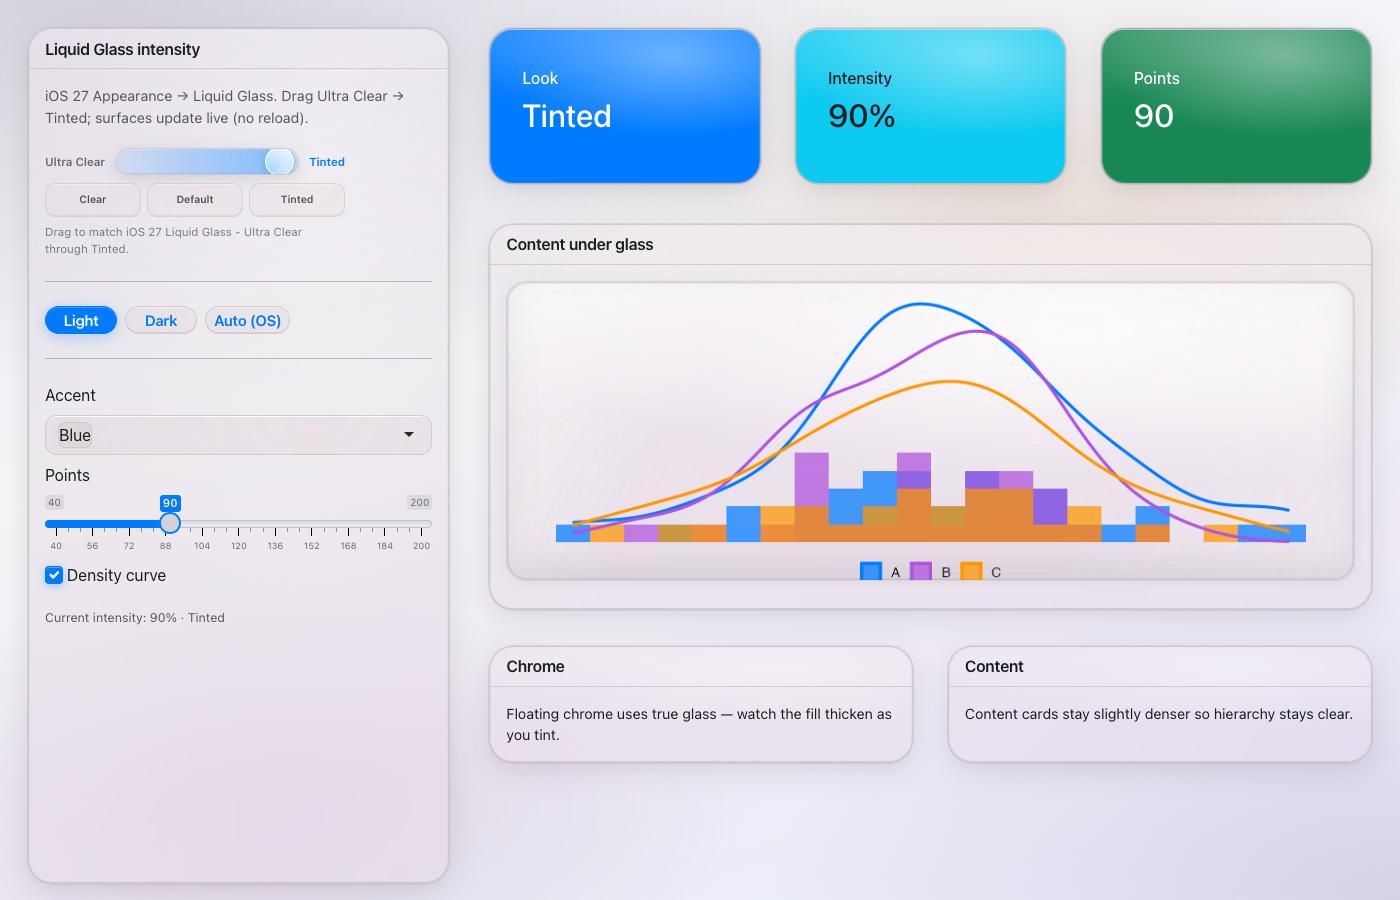
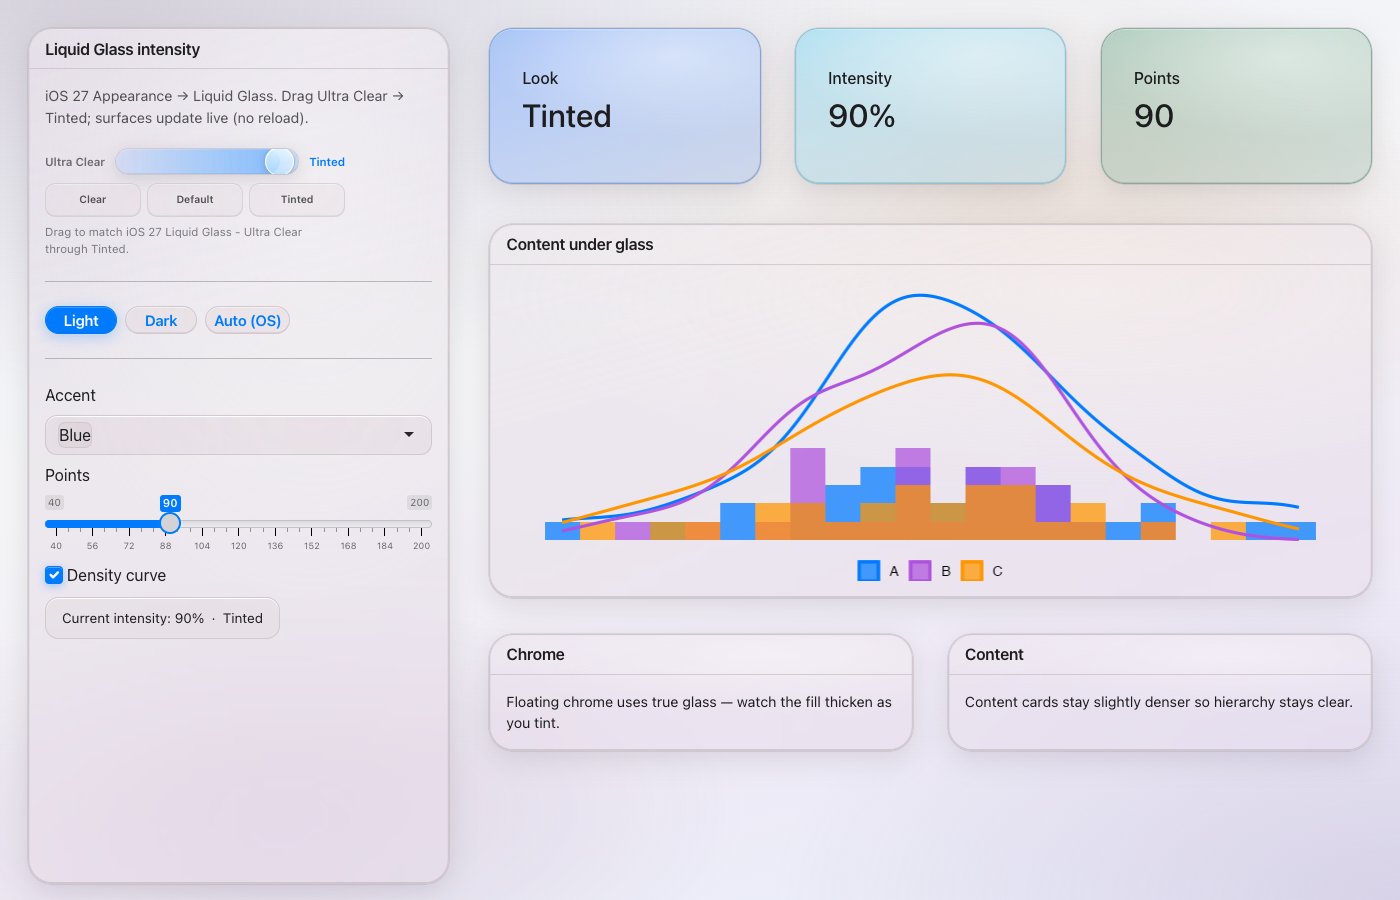
Glass value boxes and transparent plot hosts
Value boxes use a theme-color wash on glass instead of solid .bg-* fills.
Plots and DT/gt hosts inside cards drop the extra glass frame so page orbs
show through. Recapture README dashboard, demo, and intensity stills.

diff --git a/inst/scss/glass.scss b/inst/scss/glass.scss
@@ -1476,7 +1476,7 @@ body {
 // Verbatim / live values / code samples
 pre,
 pre.shiny-text-output,
-.shiny-text-output,
+.shiny-text-output:not(.value-box-value),
 .shiny-verbatim,
 .verbatim,
 code,
@@ -1819,6 +1819,68 @@ small,
   @include glass-surface();
 }
 
+// Value boxes: tinted glass, not solid .bg-* slabs. Keep a wash of the
+// theme color so primary/success/info still read, but the page orbs show
+// through. Ink follows the glass body pack (not white-on-solid).
+@mixin glass-value-box-tint($fill) {
+  background:
+    linear-gradient(
+      165deg,
+      color-mix(in srgb, #{$fill} 30%, transparent) 0%,
+      color-mix(in srgb, #{$fill} 12%, var(--glass-bg)) 100%
+    ) !important;
+  background-color: transparent !important;
+  color: var(--glass-body-color) !important;
+  --bs-card-color: var(--glass-body-color);
+  --bs-card-title-color: var(--glass-body-color);
+  --bs-card-subtitle-color: var(--glass-body-color);
+  --bslib-color-fg: var(--glass-body-color);
+  --bslib-value-box-color: var(--glass-body-color);
+  border-color: color-mix(in srgb, #{$fill} 38%, var(--glass-border)) !important;
+}
+
+.bslib-value-box.bg-primary,
+.bslib-value-box.text-bg-primary,
+.value-box.bg-primary {
+  @include glass-value-box-tint($glass-accent);
+}
+
+@each $name, $color in $theme-colors {
+  @if $name != primary {
+    .bslib-value-box.bg-#{$name},
+    .bslib-value-box.text-bg-#{$name},
+    .value-box.bg-#{$name} {
+      @include glass-value-box-tint($color);
+    }
+  }
+}
+
+.bslib-value-box .value-box-title,
+.bslib-value-box .value-box-value,
+.bslib-value-box .shiny-text-output,
+.value-box .value-box-title,
+.value-box .value-box-value,
+.value-box .shiny-text-output {
+  color: inherit !important;
+  background: transparent !important;
+  background-color: transparent !important;
+  border: none !important;
+  box-shadow: none !important;
+  padding: 0 !important;
+  font-size: inherit;
+  white-space: normal;
+}
+
+// bslib nests the value in an inner fill/showcase well — keep it open
+.bslib-value-box .value-box-area,
+.bslib-value-box .value-box-showcase,
+.bslib-value-box .html-fill-container,
+.bslib-value-box .html-fill-item {
+  background: transparent !important;
+  box-shadow: none !important;
+  border: none !important;
+}
+
 .bslib-page-sidebar > .navbar {
   @include glass-floating(var(--glass-radius));
   background: var(--glass-bg) !important;
@@ -2139,16 +2201,36 @@ small,
   box-sizing: border-box;
 }
 
-// Nested plots inside cards: lighter frame so they don't double-glass
+// Nested plots / tables inside cards: no second pane. The card is the glass;
+// let page orbs show through a transparent host (pair with renderPlot(bg=NA)).
 .card .shiny-plot-output,
 .card .shiny-image-output,
 .bslib-card .shiny-plot-output,
-.bslib-card .shiny-image-output {
-  background: color-mix(in srgb, var(--glass-bg) 55%, transparent);
-  box-shadow:
-    0 2px 12px color-mix(in srgb, var(--glass-shadow) 55%, transparent),
-    inset 0 1px 0 var(--glass-highlight);
-  border-color: color-mix(in srgb, var(--glass-border) 70%, transparent);
+.bslib-card .shiny-image-output,
+.card .dataTables_wrapper,
+.bslib-card .dataTables_wrapper,
+.card .shiny-html-output:has(.dataTables_wrapper),
+.bslib-card .shiny-html-output:has(.dataTables_wrapper),
+.card .shiny-html-output:has(.gt_table),
+.bslib-card .shiny-html-output:has(.gt_table) {
+  background: transparent !important;
+  background-color: transparent !important;
+  backdrop-filter: none !important;
+  -webkit-backdrop-filter: none !important;
+  border: none !important;
+  box-shadow: none !important;
+  padding: 0.15rem 0 0;
+  margin-bottom: 0;
+
+  &::before,
+  &::after {
+    content: none !important;
+    display: none !important;
+  }
+
+  img {
+    border-radius: 0;
+  }
 }
 
 // Frame html outputs that carry real content. Empty teal validation

diff --git a/cran-comments.md b/cran-comments.md
@@ -16,6 +16,8 @@ This is an update from 0.1.1 to 0.2.0.
 * DT/selectize glass chrome fixes; plotly/gt/AdminLTE overlay CSS.
 * Overlay chrome: datepicker, notifications, accordion, tooltip/popover,
   `.btn-close`, file Browse (dark pack no longer relies on Bootswatch darkly).
+* Value boxes are tinted glass (not solid theme fills); plot/table hosts
+  inside cards are transparent so the page shows through.
 * Navbar brand ink matches glass body color; plotly axis titles not clipped.
 * Reduced-motion support; softer plot frames; demo fixes.
 * Liquid Glass material fidelity (layered surfaces, chrome vs content,
@@ -36,14 +38,14 @@ This is an update from 0.1.1 to 0.2.0.
 
 ## R CMD check results
 
-Local `R CMD check shinyglass_0.2.0.tar.gz --as-cran` (2026-08-11):
+Local `R CMD check shinyglass_0.2.0.tar.gz --as-cran` (2026-08-14):
+incoming feasibility OK. Remote Bioconductor PACKAGES fetch may warn
+offline; `devtools::test()` 126 pass, spelling and urlchecker clean.
+Contrast audit (demo + dashboard, light/dark) 0 FAIL after glass
+value-box / transparent plot-host change.
 
-**0 errors | 0 warnings | 0 notes**
-
-Also clean: `urlchecker::url_check()`, `spelling::spell_check_package()`,
-`devtools::test()` (125 tests). Overlay chrome contrast audit
-(datepicker, notifications, accordion, tooltip/popover, `showModal()`,
-`page_navbar`) is 0 FAIL on light+dark.
+**0 errors | 0 warnings | 0 notes** expected; re-run on the tarball
+immediately before submit if the local incoming check was interrupted.
 
 If CRAN's incoming check later reports a "days since last update" note
 for a short interval after 0.1.1, that is expected and harmless.

diff --git a/NEWS.md b/NEWS.md
@@ -62,6 +62,10 @@
   for media-rich layouts. Defaults: `blur = 36`, `radius = "1.5rem"`,
   `saturation = 200`.
 
+* Value boxes are tinted glass (theme-color wash + body ink), not solid
+  `.bg-*` slabs. Plots and DT/gt hosts inside cards drop the extra glass
+  frame so page orbs show through (`renderPlot(bg = "transparent")` in
+  bundled demos).
 * DataTables / Bootstrap pagination chips: style the visible `.page-link`
   surface (DT uses `<li.paginate_button><a.page-link>`). Fixes solid black
   page numbers and light-grey ellipsis chips in dark mode on the dashboard
